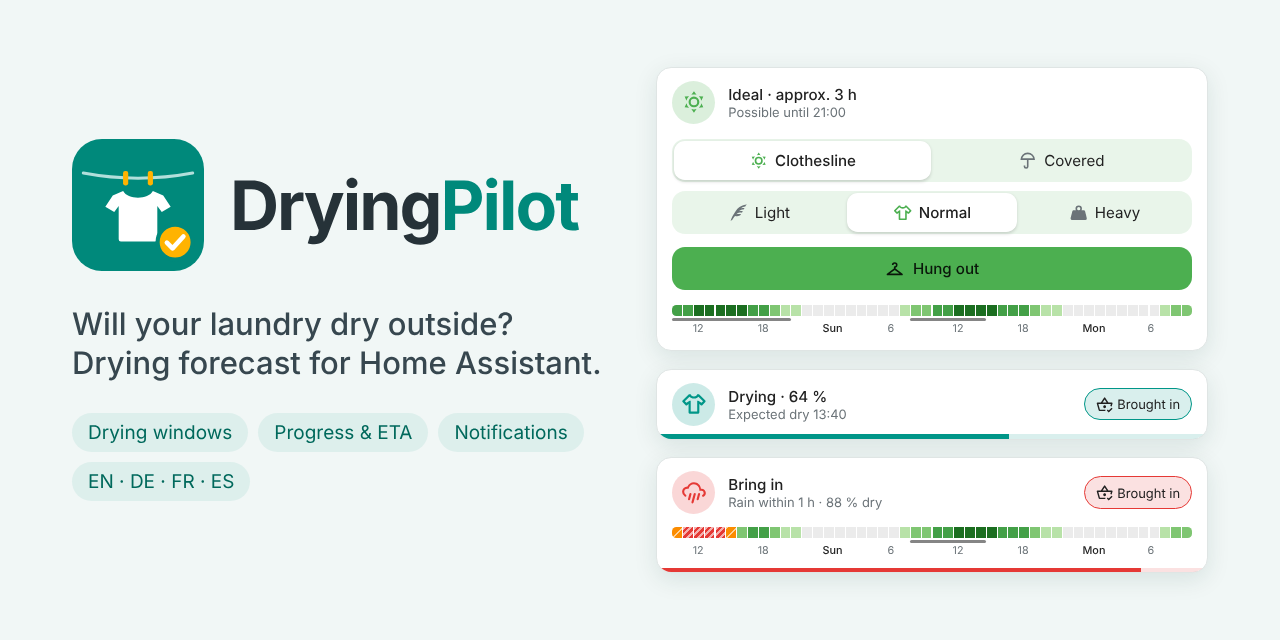
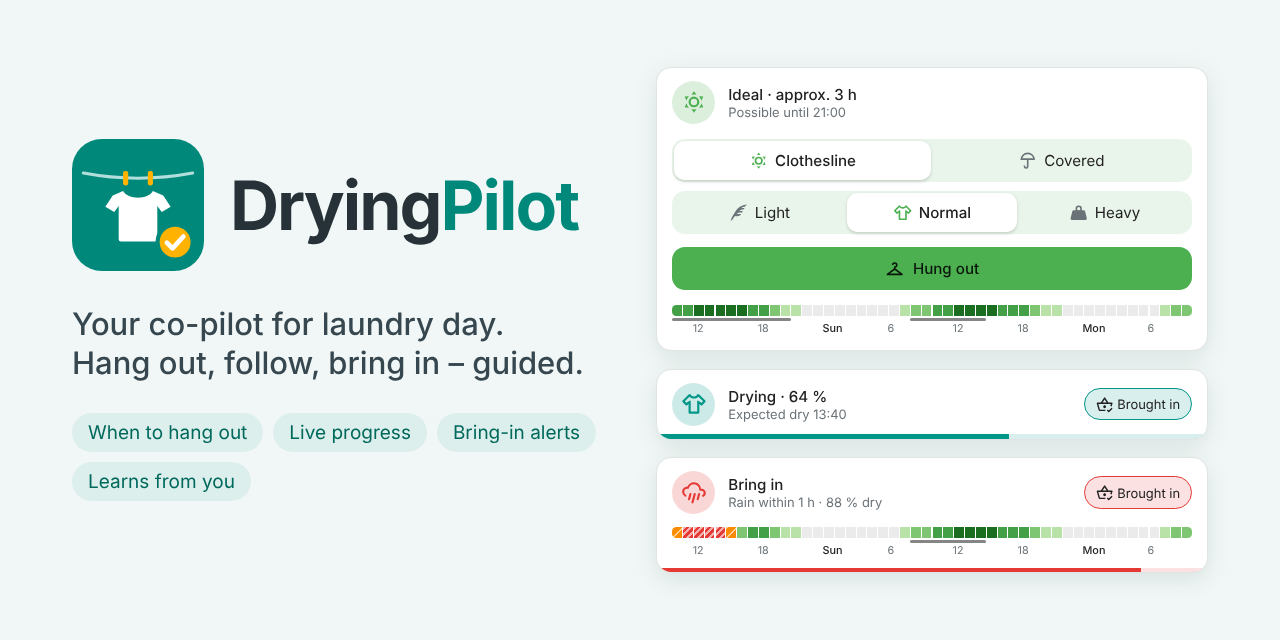
docs: focus README intro and social preview on the guided laundry day
Claude-Session: https://claude.ai/code/session_01V49Ew97j79YLFJ6LX4XBrN

Changed region(s): [[0.0625, 0.4688, 0.4688, 0.5938], [0.0625, 0.6562, 0.4688, 0.6875], [0.0625, 0.7188, 0.1875, 0.7812]]

diff --git a/README.md b/README.md
@@ -1,13 +1,14 @@
 <img src="custom_components/drying_pilot/brand/icon.png" alt="DryingPilot icon" width="96" align="right">
 
-# DryingPilot – laundry drying forecast & tracker for Home Assistant
+# DryingPilot – your co-pilot for laundry day in Home Assistant
 
 ![DryingPilot card in light and dark theme](docs/drying-pilot-card.png)
 
-DryingPilot tells you whether your laundry will dry outside – and when. It combines
-the hourly weather forecast with optional outdoor sensors and PV power to show
-the current drying status, upcoming drying windows, how long drying is possible
-and, once the laundry is out, its progress and when it is expected to be dry.
+DryingPilot guides your laundry day: it tells you **when to hang the laundry out**,
+follows it **while it dries** with live progress and the expected finish time, and
+alerts you to **bring it in** before rain or damp air. It combines the hourly weather
+forecast with optional outdoor sensors and PV power – and learns from your feedback
+how fast laundry dries at your place.
 
 **Languages:** English · Deutsch · Français · Español
 (follows the language set in Home Assistant; English is used as fallback)
